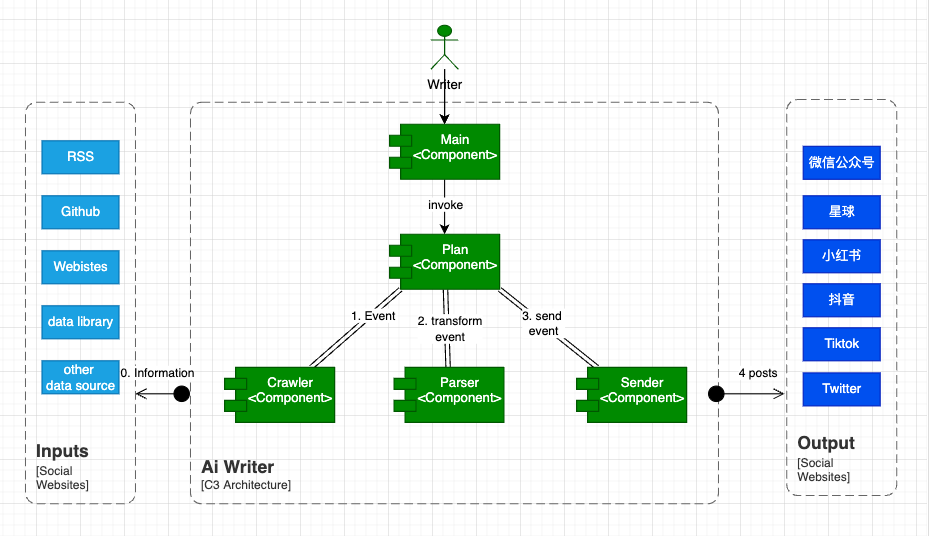
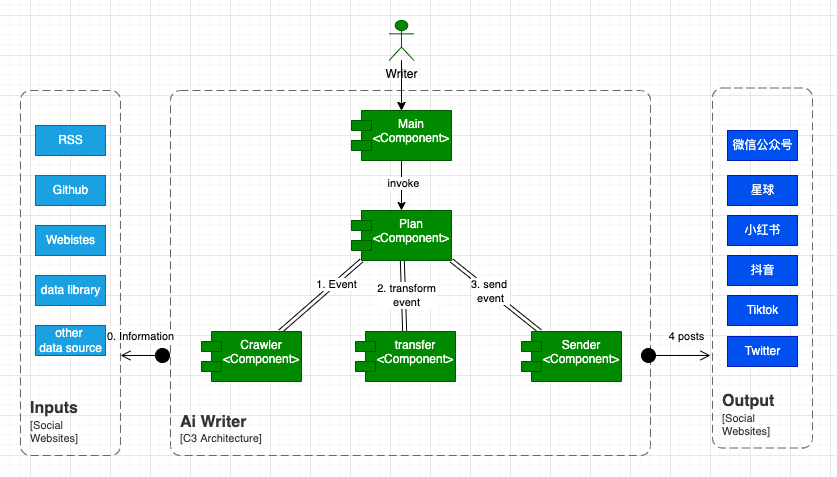
e2e debugging

diff --git a/sender/wechat/WechatSender.py b/sender/wechat/WechatSender.py
@@ -9,16 +9,15 @@ class WechatSender:
     def __init__(self):
         self.app_id = os.environ.get('wechat_appid')
         self.app_secret = os.environ.get('wechat_secret')
+        self.access_token = self.get_access_token()
 
     def send(self, event):
         if not self.app_id or not self.app_secret:
             print("Error: wechat_appid and/or wechat_secret not set.")
             raise ValueError("Missing required environment variables.")
 
-        access_token = self.get_access_token()
-
         # Add draft article
-        add_draft_url = f"https://api.weixin.qq.com/cgi-bin/draft/add?access_token={access_token}"
+        add_draft_url = f"https://api.weixin.qq.com/cgi-bin/draft/add?access_token={self.access_token}"
         headers = {'Content-Type': 'application/json; charset=utf-8'}
         replaced_img_content = event['content'].replace('PLACE_HOLDER',
                                                         'https://mmbiz.qpic.cn/mmbiz_jpg/dghhiacNqQgg5Ub3OWHhU4cAIIZeooEfF6Ivicx3yyklokrsW3NIdgtibSVlNMdGTPJsvkuFrWnicbiarHiaiaX0Zy8jg/0?wx_fmt=jpeg')
@@ -40,7 +39,7 @@ class WechatSender:
         media_id = result['media_id']
 
         # Publish draft article
-        publish_url = f"https://api.weixin.qq.com/cgi-bin/freepublish/submit?access_token={access_token}"
+        publish_url = f"https://api.weixin.qq.com/cgi-bin/freepublish/submit?access_token={self.access_token}"
         publish_data = {
             "media_id": media_id
         }
@@ -51,9 +50,8 @@ class WechatSender:
         return media_id
 
     def retrieve_10_articles_id(self):
-        access_token = self.get_access_token()
         article_ids = []
-        batch_get_url = f'https://api.weixin.qq.com/cgi-bin/freepublish/batchget?access_token={access_token}'
+        batch_get_url = f'https://api.weixin.qq.com/cgi-bin/freepublish/batchget?access_token={self.access_token}'
         batch_get_body = {
             "offset": 0,
             "count": 10
@@ -65,8 +63,7 @@ class WechatSender:
         return article_ids
 
     def remove_materials(self, ids):
-        access_token = self.get_access_token()
-        remove_article_url = f'https://api.weixin.qq.com/cgi-bin/freepublish/delete?access_token={access_token}'
+        remove_article_url = f'https://api.weixin.qq.com/cgi-bin/freepublish/delete?access_token={self.access_token}'
         for a_id in ids:
             time.sleep(0.5)
             print('Current id: ' + a_id)
@@ -81,7 +78,6 @@ class WechatSender:
                 print(f'Remove failed!, code:{remove_res["errcode"]}, message: {remove_res["errmsg"]}')
 
     def get_access_token(self):
-        # Get access token
         token_url = f"https://api.weixin.qq.com/cgi-bin/token?grant_type=client_credential&appid={self.app_id}&secret={self.app_secret}"
         token_response = requests.get(token_url)
         token_data = json.loads(token_response.text)

diff --git a/plan/Gpt3demoToWechatPlan.py b/plan/Gpt3demoToWechatPlan.py
@@ -1,0 +1,30 @@
+import os
+import time
+
+from plan import Gpt3demoToJsonSourceSubPlan
+from sender.wechat.WechatSender import WechatSender
+from tools.FileTools import read_file
+from transfer.json.WxOfficialAccountTransfer import wx_transform
+
+
+def execute(root_path):
+    Gpt3demoToJsonSourceSubPlan.execute(root_path)
+
+    source_dir = root_path + '/.results/json_source_results/'
+    results_source_dir = root_path + '/.results'
+    ad_path_json = root_path + '/resources/advertising.json'
+    sender = WechatSender()
+    for root, dirs, files in os.walk(source_dir):
+        handle_files(source_dir, files, ad_path_json, results_source_dir, sender)
+
+
+def handle_files(json_source_dif, files, ad_path_json, results_source_dir, sender):
+    for file in files:
+        handle_single_file(json_source_dif, file, ad_path_json, results_source_dir, sender)
+        time.sleep(0.5)
+
+
+def handle_single_file(json_source_path, name, ad_path_json, results_source_dir, sender):
+    json_source_content = read_file(json_source_path + name, True)
+    message = wx_transform(results_source_dir, name, json_source_content, ad_path_json)
+    sender.send(message)

diff --git a/plan/Gpt3demoToXinqiuPlan.py b/plan/Gpt3demoToXinqiuPlan.py
@@ -1,0 +1,32 @@
+import os
+import time
+
+from plan import Gpt3demoToJsonSourceSubPlan
+from sender.xinqiu.XinQiu import XinQiu
+from tools.FileTools import read_file
+from transfer.xinqiu import HtmlTransfer
+from transfer.xinqiu.MarkdownTransfer import planet_transform
+
+
+def execute(root_path):
+    # Gpt3demoToJsonSourceSubPlan.execute(root_path)
+    source_dir = root_path + '/.results/json_source_results/'
+    results_source_dir = root_path + '/.results'
+    for root, dirs, files in os.walk(source_dir):
+        handle_files(source_dir, files, results_source_dir)
+
+
+def handle_files(json_source_dif, files, results_source_dir):
+    for file in files:
+        try:
+            handle_single_file(json_source_dif, file, results_source_dir)
+        except Exception as e:
+            print(e)
+
+
+def handle_single_file(json_source_path, name, results_source_dir):
+    json_source_content = read_file(json_source_path + name, True)
+    content = HtmlTransfer.transfer(results_source_dir, name, json_source_content)
+    event = {'content': content}
+    XinQiu().send(event)
+

diff --git a/transfer/xinqiu/HtmlTransfer.py b/transfer/xinqiu/HtmlTransfer.py
@@ -1,0 +1,16 @@
+from tools.ContentFormatTools import parse_json_to_html_code, retrieve_data_from_json_list
+from tools.FileTools import save_file, read_file
+from sender.wechat.WechatSender import WechatSender
+
+
+def transfer(root_path, json_file_name, json_source_content):
+    wechat_file_dir = root_path + '/wechat_source_results/'
+    title = retrieve_data_from_json_list(json_source_content, 'h1')
+    subtitle = retrieve_data_from_json_list(json_source_content, 'h2')
+    source_link = retrieve_data_from_json_list(json_source_content, 'link')
+    html_content = parse_json_to_html_code(json_source_content, ['section']) + "<br/> [原文链接]" + source_link["text"]
+    with_title = "<h1># " + title["text"] + "</h1><br/><p></p><h2>" + subtitle["text"] if subtitle and subtitle["text"] \
+        else "" + "</h2>" + html_content
+    save_file(wechat_file_dir, json_file_name, with_title, True)
+    content = with_title.replace("<div>", "").replace("<section>", "").replace("</div>", "").replace("</section>", "")
+    return content

diff --git a/transfer/xinqiu/MarkdownTransfer.py b/transfer/xinqiu/MarkdownTransfer.py
@@ -5,9 +5,10 @@ from tools.StringTools import replace
 
 def planet_transform(results_source_dir, name, json_source_content, ad_path_md):
     md_file_dir = results_source_dir + '/md_results/'
-    md_file_name = replace(name, '.json', '.md')
+    md_file_name = replace(name, '.json', '.xinqiu')
     source_link = retrieve_data_from_json_list(json_source_content, 'link')
     md_content = parse_json_data_to_md(json_source_content, ['section', 'h1', 'h2'])
     md_content += "\n" + "原文链接: " + source_link['text']
     md_content += "\n" + read_file(ad_path_md, False)
     save_file(md_file_dir, md_file_name, md_content, False)
+    return md_content

diff --git a/sender/xinqiu/XinQiu.py b/sender/xinqiu/XinQiu.py
@@ -26,7 +26,8 @@ class XinQiu:
         tip_div.click()
         editor_div = self.driver.find_element(By.CSS_SELECTOR, 'div.ql-editor.ql-blank')
         p_element = editor_div.find_element(By.CSS_SELECTOR, "p")
-        p_element.send_keys(event['content'])
+        content = event['content']
+        self.driver.execute_script("arguments[0].innerHTML = arguments[1];", p_element, content)
 
         # click the submit button
         submit_button = self.driver.find_element(By.CLASS_NAME, 'submit-btn')

diff --git a/tools/ContentFormatTools.py b/tools/ContentFormatTools.py
@@ -45,7 +45,7 @@ def parse_json_to_html_code(data, target_tags):
             tag = item["tag"]
             text = item["text"]
             children = parse_json_to_html_code(item["children"], []) if item["children"] else ""
-            html_code += f"<{tag}>{text}{children}</{tag}><br/>"
+            html_code += f"<{tag}>{text}{children}</{tag}><br/><p></p>"
     return html_code
 
 

diff --git a/transfer/json/WxOfficialAccountTransfer.py b/transfer/json/WxOfficialAccountTransfer.py
@@ -16,4 +16,4 @@ def wx_transform(root_path, json_file_name, json_source_content, ad_path):
                       'content': html_content,
                       'sourceLink': source_link['text']}
     save_file(wechat_file_dir, json_file_name, wechat_message, True)
-    WechatSender().send(wechat_message)
+    return wechat_message

diff --git a/plan/Gpt3demoToJsonSourceSubPlan.py b/plan/Gpt3demoToJsonSourceSubPlan.py
@@ -6,7 +6,7 @@ from tools.FileTools import save_file, read_file, delete_dir
 
 
 def execute(root_path):
-    results_path = root_path + '/results/'
+    results_path = root_path + '/.results/'
     delete_dir(results_path)
     links = retrieve_part_links(results_path, root_path)
 

diff --git a/README.md b/README.md
@@ -7,7 +7,7 @@
 * use `prompt` to record `AiWriter` pair developing logs
 * use `resources` to save all templates and static files
 * use `crawler` to spider and generate information `event`
-* use `parser` to transform `event` to another one
+* use `transfer` to transform `event` to another one
 * use `sender` to send `event` to multiple platform
 * user `plan` to schedule crawler, parser, sender for business flow
 
@@ -17,13 +17,10 @@
 
 * US1 - add sender-wechat open platform
 * US2 - add crawler for https://gpt3demo.com/  [refactoring]
-* US3 - add parser-markdown [refactoring]
-* US4 - add parser-google translate [refactoring]
+* US3 - add transfer-markdown [refactoring]
+* US4 - add transfer-google translate [refactoring]
 * US5 - add plan-gpt3demo_to_wechat
 * US6 - add main python to invoke relate plan
-
-### ongoing
-
 * US7 - add sender - xinqiu community
 
 ### next
@@ -40,11 +37,46 @@ export wechat_appid="replace me"
 export wechat_appid="replace me"
 
 python main -plan gpt3demo_to_wechat
-
+python main -plan gpt3demo_to_xinqiu
 ```
 
-Gpt3demoToJsonSourcePlan.py: used for generate source json file, pls run this plan first
-SendPlantArticlePlan.py: used for sending plant articles
-SendWxArticleFromJsonSourcePlan.py: used for sending wx articles
-ClearWxArticlesPlan.py: used for delete wx article, only 10 articles
-currentLocation.json: used for controlling current crawl articles offset and limit
+### Notices
+
+* Gpt3demoToJsonSourcePlan.py: used for generate source json file, pls run this plan first
+* SendPlantArticlePlan.py: used for sending plant articles
+* SendWxArticleFromJsonSourcePlan.py: used for sending wx articles
+* ClearWxArticlesPlan.py: used for delete wx article, only 10 articles
+* currentLocation.json: used for controlling current crawl articles offset and limit
+
+### transfer
+
+* event schema
+
+```text
+
+[
+    {
+        "tag": "h1",
+        "text": "ActiveChat.ai",
+        "children": []
+    },
+    {
+        "tag": "h2",
+        "text": "GPT-3使客户服务代理人的生活更轻松",
+        "children": []
+    },
+    {
+        "tag": "section",
+        "text": "",
+        "children": [
+            {
+                "tag": "h2",
+                "text": "关于Activechat.ai",
+                "children": []
+            }
+         ]
+     } 
+]    
+```
+
+
